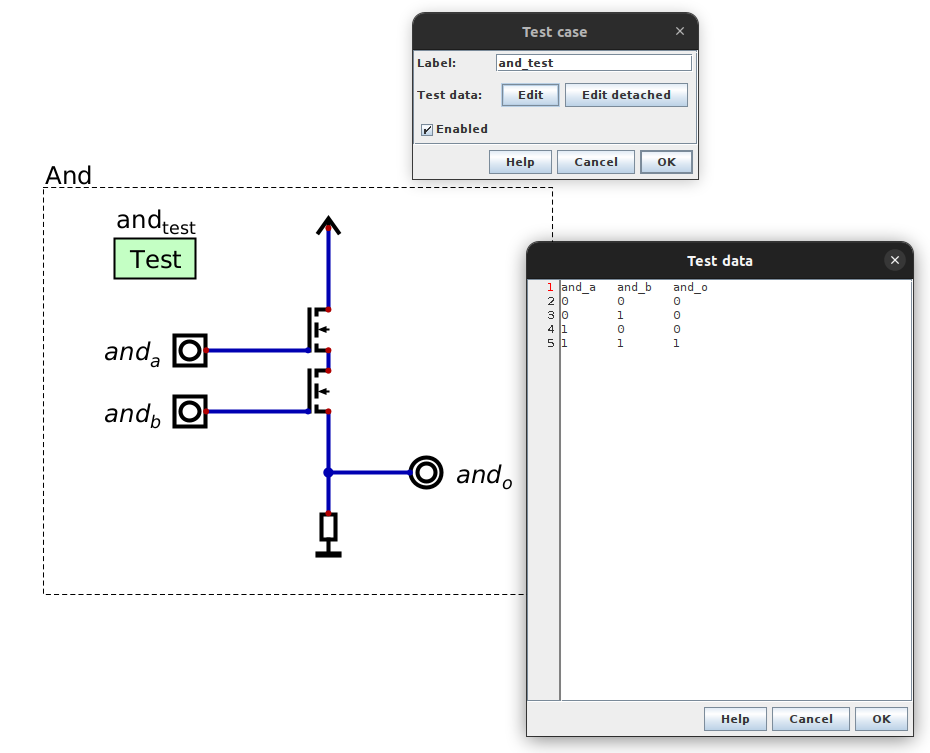
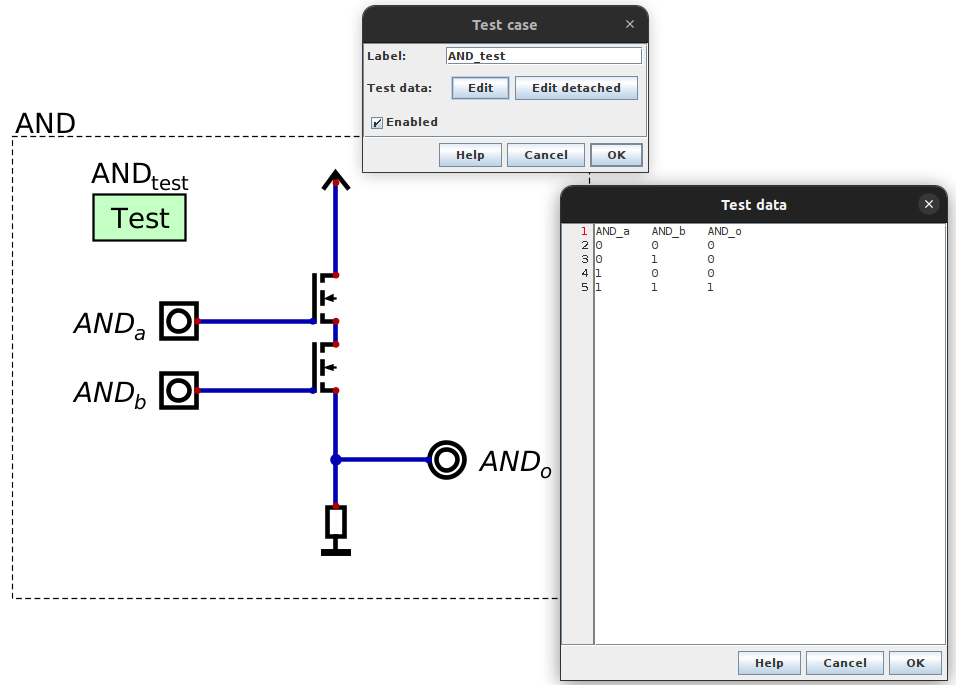
:telescope: Topic gates --- Use special typesetting for AND, OR, NOT when referring to operators and gates (#47)

Changed region(s): [[0.0624, 0.0, 1.0, 1.0], [0.0, 0.1533, 0.2183, 0.3985]]

diff --git a/site/topics/transistors-gates/gates.rst b/site/topics/transistors-gates/gates.rst
@@ -18,13 +18,24 @@ Logic Gates
     transistors will not be directly interacted with going forward in this course.
 
 
+.. note::
 
-And Gate
+    Going forward, words for boolean operators and logic gates will be stylized to help designate what is being
+    referred to.
+
+    For example, the typesetting for words when referring to mathematical boolean operators will be stylized like so
+    --- :math:`and`. However, when referring to a logic gate, the words will be stylized like this --- AND.
+
+    They both mean the same thing on an abstract level, but efforts are made to eliminate ambiguity.
+
+
+
+AND Gate
 ========
 
-* Consider the **and** operator --- output ``1`` when both operands are ``1``, otherwise output ``0``
+* Consider the :math:`and` operator --- output ``1`` when both operands are ``1``, otherwise output ``0``
 
-.. list-table:: Truth Table for **and**
+.. list-table:: Truth Table for :math:`and`
     :widths: auto
     :align: center
     :header-rows: 1
@@ -60,8 +71,8 @@ And Gate
     :width: 500 px
     :align: center
 
-    Two transistors in series. Both transistors would need to be "on" in order for the signal at the top transistor's
-    source (``1``) to reach the output at the bottom transistor's drain.
+    Two transistors in series configured to perform the :math:`and` operation. Both transistors would need to be "on" in
+    order for the signal at the top transistor's source (``1``) to reach the output at the bottom transistor's drain.
 
 
 * With two transistors in *series*, both would need to be "on" for the signal to travel through to the output
@@ -71,43 +82,44 @@ And Gate
 
 
 * If either switch (or both) is "off", the signal could not travel to the output
-* This perfectly corresponds to the **and** boolean operator
-* This circuit is called an *and gate*
+* This perfectly corresponds to the :math:`and` boolean operator
+* This circuit is called an *AND gate*
 
 .. note::
 
     Each circuit seen so far has had a "Test" component. This allows one to create unit tests for circuits to help
     ensure correctness. Although the unit tests can get more complex and expressive, a simple form of unit tests for
-    Digital is truth tables. Below is a unit test for the **and** circuit, which is the truth table defining how the
-    circuit should behave.
+    Digital is truth tables. Below is a unit test for the AND circuit, which is the truth table defining how the circuit
+    should behave.
 
     .. figure:: and_gate_unit_test.png
         :width: 666 px
         :align: center
 
-        Unit test for the **and** circuit. Each column corresponds to a labelled input/output and each row specifies
+        Unit test for the AND circuit. Each column corresponds to a labelled input/output and each row specifies
         expected states.
 
 
 * Boolean operators are used extensively within computer architecture
 * Thus, special symbols are used to designate specific operators' gates
-* Below is two images with the symbol for an and gate
+* Below is two images with the symbol for an AND gate
 
-    * The first image is of the symbol for the and gate
-    * The second shows how the inputs and output would correspond to the full and gate built with transistors
+    * The first image is of the symbol for the AND gate
+    * The second shows how the inputs and output would correspond to the full AND gate built with transistors
 
 
 .. figure:: and_gate_symbol.png
     :width: 500 px
     :align: center
 
-    Symbol for an and gate.
+    Symbol for an AND gate.
+
 
 .. figure:: and_gate_symbol_with_labels.png
     :width: 500 px
     :align: center
 
-    Symbol for an and gate with labelled inputs and output corresponding to the *and gate* built with transistors.
+    Symbol for an AND gate with labelled inputs and output corresponding to the AND gate built with transistors.
 
 
 .. note::
@@ -117,12 +129,12 @@ And Gate
 
 
 
-Or Gate
+OR Gate
 =======
 
-* For **or**, a signal of ``1`` should reach the output if either switch is "on"
+* For :math:`or`, a signal of ``1`` should reach the output if either switch is "on"
 
-.. list-table:: Truth Table for **or**
+.. list-table:: Truth Table for :math:`or`
     :widths: auto
     :align: center
     :header-rows: 1
@@ -153,7 +165,8 @@ Or Gate
     :width: 500 px
     :align: center
 
-    Two transistors in parallel. Either transistors would need to be "on" in order for the signal to reach the output.
+    Two transistors in parallel configured to perform the :math:`or` operation. Either transistors would need to be "on"
+    in order for the signal to reach the output.
 
 
 * With two transistors in *parallel*, either would need to be "on" for the signal to travel through to the output
@@ -162,21 +175,21 @@ Or Gate
     * The parallel circuits, the signal can travel through each separate conductor
 
 
-* Below is an image of the symbol for an or gate
+* Below is an image of the symbol for an OR gate
 
 .. figure:: or_gate_symbol.png
     :width: 500 px
     :align: center
 
-    Symbol for an or gate.
+    Symbol for an OR gate.
 
 
-Not Gate
+NOT Gate
 ========
 
-* Now consider the **not** operator
+* Now consider the :math:`not` operator
 
-.. list-table:: Truth Table for **not**
+.. list-table:: Truth Table for :math:`not`
     :widths: auto
     :align: center
     :header-rows: 1
@@ -193,14 +206,14 @@ Not Gate
 
 
 
-* The not gate is a little different from the and/or gates
+* The NOT gate is a little different from the AND/OR gates
 
 
 .. figure:: not_gate_with_transistors.png
     :width: 500 px
     :align: center
 
-    Not gate with a transistor. When the transistor is turned "on", the circuit's voltage will drop to neutral as ground
+    NOT gate with a transistor. When the transistor is turned "on", the circuit's voltage will drop to neutral as ground
     would be directly connected to the output.
 
 
@@ -222,29 +235,28 @@ Not Gate
 
 .. admonition:: Activity
 
-    How would one configure the schematic for **not** if using a P-channel MOSFET instead of a N-channel like above?
+    How would one configure the schematic for :math:`not` if using a P-channel MOSFET instead of a N-channel like above?
 
 
 
-
-* Below is an image of the symbol for a not gate
+* Below is an image of the symbol for a NOT gate
 
 .. figure:: not_gate_symbol.png
     :width: 500 px
     :align: center
 
-    Symbol for a not gate.
+    Symbol for a NOT gate.
 
 
-* However, not is sometimes represented as only the circle
+* However, NOT is sometimes represented as only the circle
 
     * In fact, the triangle in the gate means a *buffer* component
 
 
-* It is also common to simplify a not input to another gate by adding a circle to the symbol's respective input
-* Below is an example of an and gate with one input inverted
+* It is also common to simplify a NOT input to another gate by adding a circle to the symbol's respective input
+* Below is an example of an AND gate with one input inverted
 
-    * The top image shows one input explicitly inverted with a not gate
+    * The top image shows one input explicitly inverted with a NOT gate
     * The bottom image is simplified to show that the input is inverted
 
 
@@ -252,35 +264,36 @@ Not Gate
     :width: 500 px
     :align: center
 
-    Two representations of an and gate with the top input being inverted.
+    Two representations of an AND gate with the top input being inverted.
 
 
 
 Other Gate Symbols
 ==================
 
-* Adding a circle to the output would signify an inverted output, like the below nor and nand gate symbols
+* Adding a circle to the output would signify an inverted output, like the below NOR and NAND gate symbols
 
 .. figure:: nor_gate_symbol.png
     :width: 500 px
     :align: center
 
-    Symbol for a nor gate.
+    Symbol for a NOR gate.
+
 
 .. figure:: nand_gate_symbol.png
     :width: 500 px
     :align: center
 
-    Symbol for a nand gate.
+    Symbol for a NAND gate.
 
 
-* Another common symbol is for exclusive or (xor)
+* Another common symbol is for exclusive OR (XOR)
 
 .. figure:: xor_gate_symbol.png
     :width: 500 px
     :align: center
 
-    Symbol for a xor gate.
+    Symbol for a XOR gate.
 
 
 
@@ -290,42 +303,43 @@ Additional Inputs
 * Typically, these logic gates have two inputs
 * However, having more than two inputs is normal
 
-* An and gate with more than two inputs outputs ``1`` only when all inputs are ``1``
+* An AND gate with more than two inputs outputs ``1`` only when all inputs are ``1``
 
 .. figure:: and_5_input_single_gate.png
     :width: 500 px
     :align: center
 
-    Single and gate with five inputs.
+    Single AND gate with five inputs.
 
 
-* An or gate with more than two inputs outputs ``1`` if any of the inputs are ``1``
+* An OR gate with more than two inputs outputs ``1`` if any of the inputs are ``1``
 
 .. figure:: or_4_input_single_gate.png
     :width: 500 px
     :align: center
 
-    Single or gate with four inputs.
+    Single OR gate with four inputs.
 
 
-* A nand gate with more than two inputs is an and gate with the same number of inputs, but with an inverted output
+* A NAND gate with more than two inputs is an AND gate with the same number of inputs, but with an inverted output
 
     * In other words, outputs ``1`` as long as not all inputs are ``1`` (at least one input is ``0``)
+
 
 .. figure:: nand_4_input_single_gate.png
     :width: 500 px
     :align: center
 
-    Single nand gate with four inputs.
+    Single NAND gate with four inputs.
 
 
 
-* A nor gate with more than two inputs is the same as an or gate with the same number of inputs, with an inverted output
+* A NOR gate with more than two inputs is the same as an OR gate with the same number of inputs, with an inverted output
 
     * Outputs ``1`` only when all inputs are ``0``
 
 
-* An exclusive or (xor) with more than two inputs effectively works as a parity check
+* An XOR with more than two inputs effectively works as a parity check
 
     * Checks if the number of ``1`` inputs is even or odd
     * Output ``0`` when an even number of inputs are ``1``
